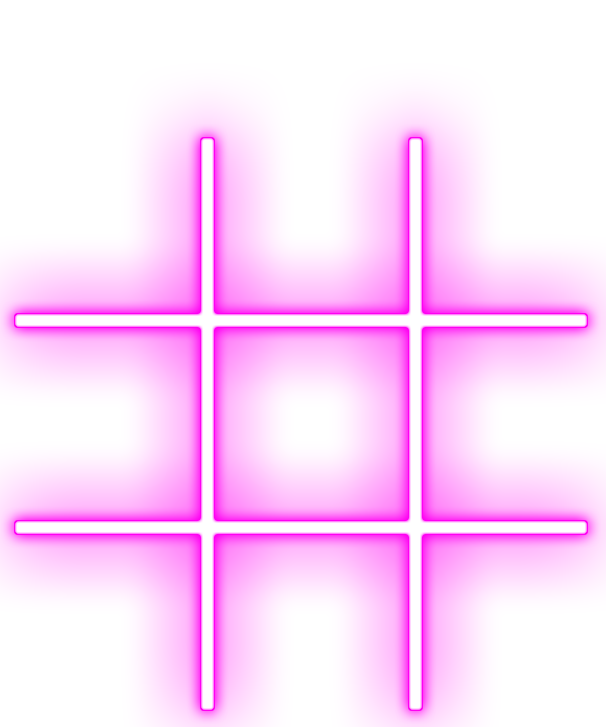
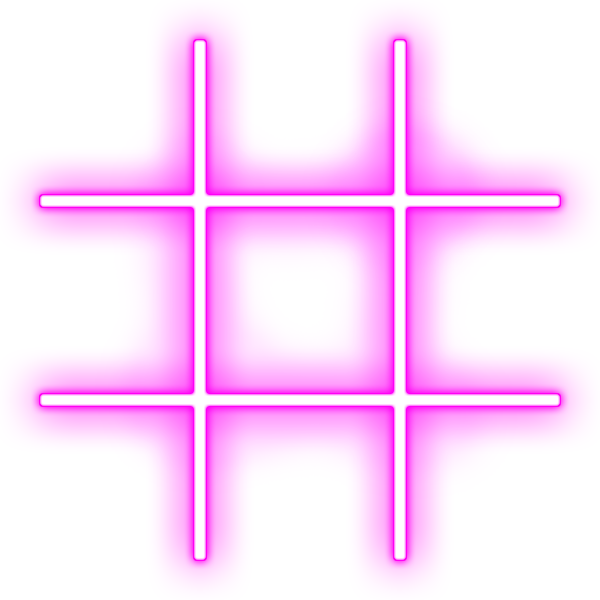
Changed grid css

diff --git a/main.css b/main.css
@@ -1,3 +1,7 @@
+* {
+  box-sizing: border-box;
+}
+
 body {
   margin: 0;
   overflow: hidden;
@@ -17,10 +21,7 @@ body {
   margin: auto;
   background-image: url(./assets/grid.png);
   background-position: center;
-  background-position-y: -100px;
-  background-position-x: 20px;
-  background-size: 90%;
-  background-repeat: no-repeat;
+  width: auto;
 }
 
 .cell {
@@ -34,27 +35,15 @@ body {
   font-size: 130px;
 }
 
-.title {
-  width: 200px;
-  height: 400px;
-  margin-top: 20px;
-  margin-left: -60px;
-  position: absolute;
-}
-
-.whitespace {
-  margin: auto;
-  width: 25%;
-}
-
-.title img {
-  width: auto;
-  height: 70%;
-}
-
 .info {
-  margin: auto;
-  width: 25%;
+  float: right;
+  width: 35%;
+}
+
+.info img {
+  margin-left: 20%;
+  margin-right: 20%;
+  width: 60%;
 }
 
 .parent {
@@ -69,15 +58,18 @@ body {
 }
 
 .restart {
-  margin-left: 40px;
-  margin-top: 450px;
-  align-self: flex-end;
-  width: 200px;
-  height: 80px;
-  text-align: center;
+  width: 300px;
+  height: 100px;
   border-radius: 8px;
   border: 3px solid rgb(0, 40, 70);
   cursor: pointer;
+  margin: 0 auto;
+  margin-top: 50%;
+}
+
+.game--status {
+  text-shadow: 0px 0px 5px #fff, 1px 1px 10px #ccc;
+  font-size: 2.5em;
 }
 
 h2 {
@@ -93,7 +85,7 @@ h1 {
   font-family: -apple-system, BlinkMacSystemFont, "Segoe UI", Roboto, Oxygen,
     Ubuntu, Cantarell, "Open Sans", "Helvetica Neue", sans-serif;
   font-weight: 500;
-  font-size: 2em;
+  font-size: 2.5em;
   margin: 10px 0 0;
   color: rgba(120, 0, 50, 0.5);
 }

diff --git a/index.html b/index.html
@@ -7,9 +7,6 @@
   <link rel="stylesheet" href="./main.css">
 </head>
 <body>
-  <div class="title">
-      <img src="./assets/neon_on.png" alt="TicTacToe"/>
-    </div>  
   <div class="parent">
     <div class="whitespace"></div>
     <div class="game--container">
@@ -24,6 +21,7 @@
       <div data-cell-index="8" class="cell"></div>
     </div>
     <div class="info">
+      <img src="./assets/neon_on.png" alt="TicTacToe"/>
       <h2 class="game--status"><h2>
       <div class="restart">
         <h1 class="game--restart">Rest<span class="first">a</span>rt</h1>
